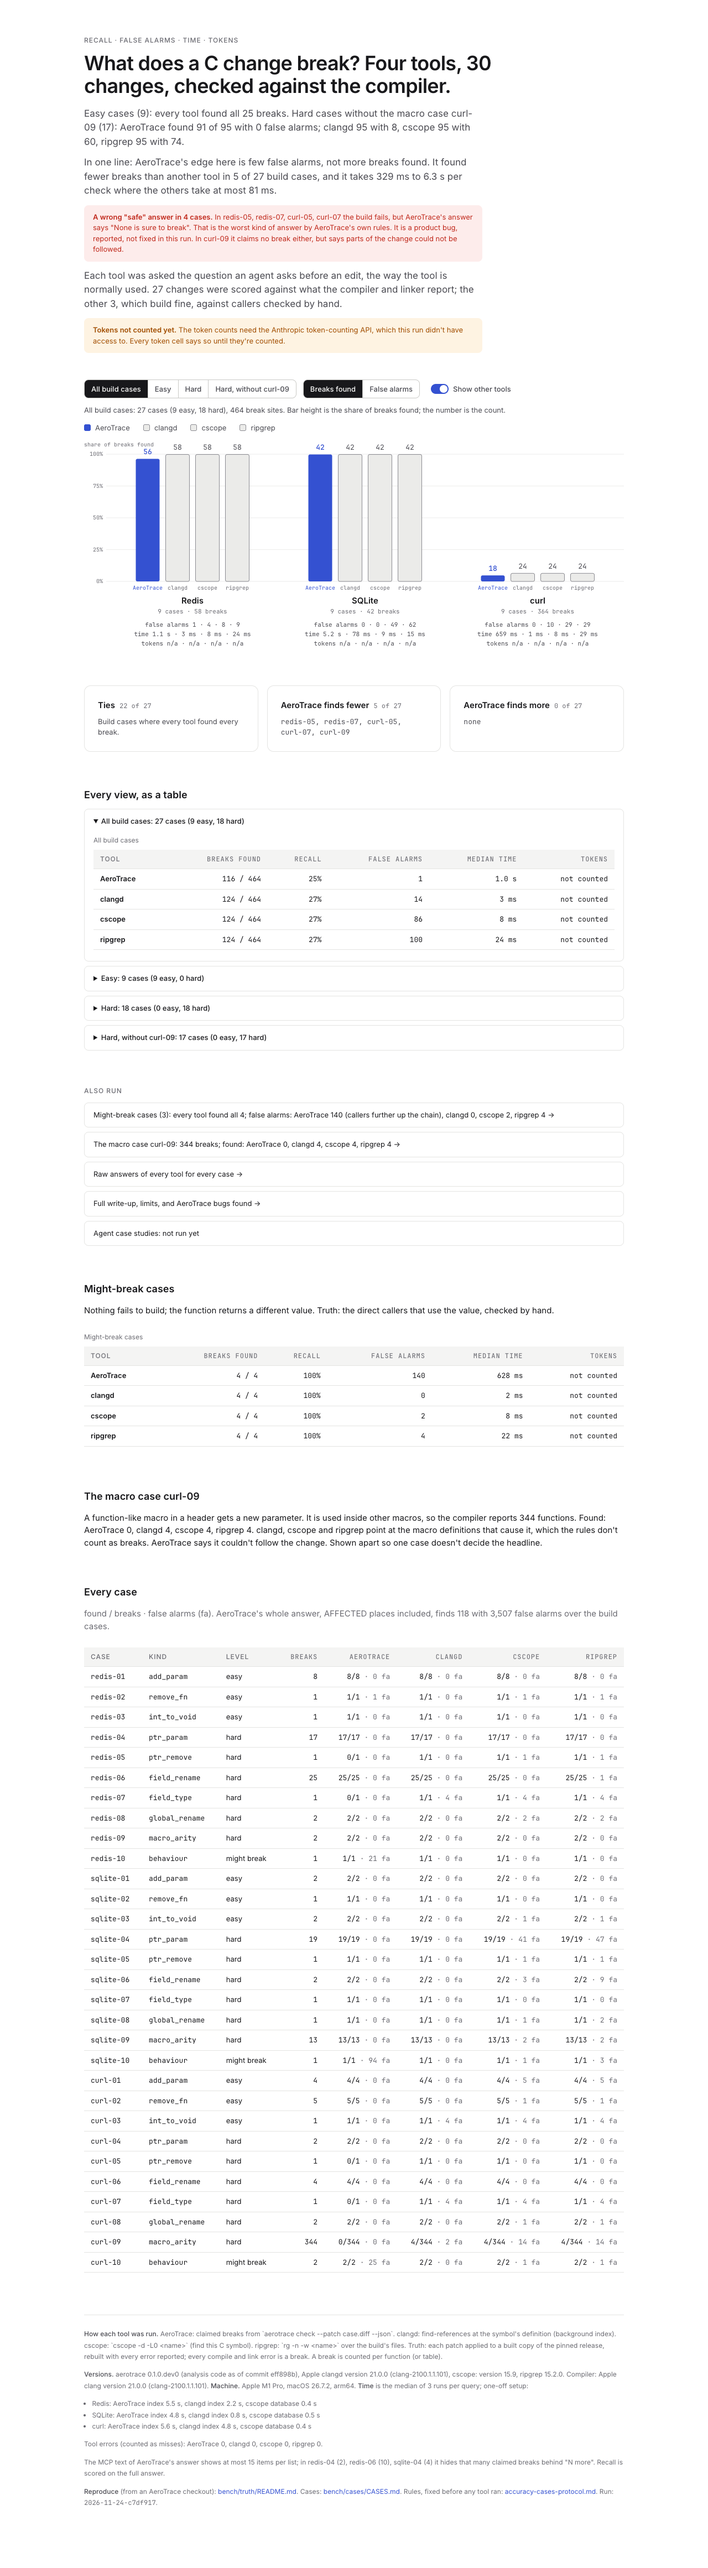
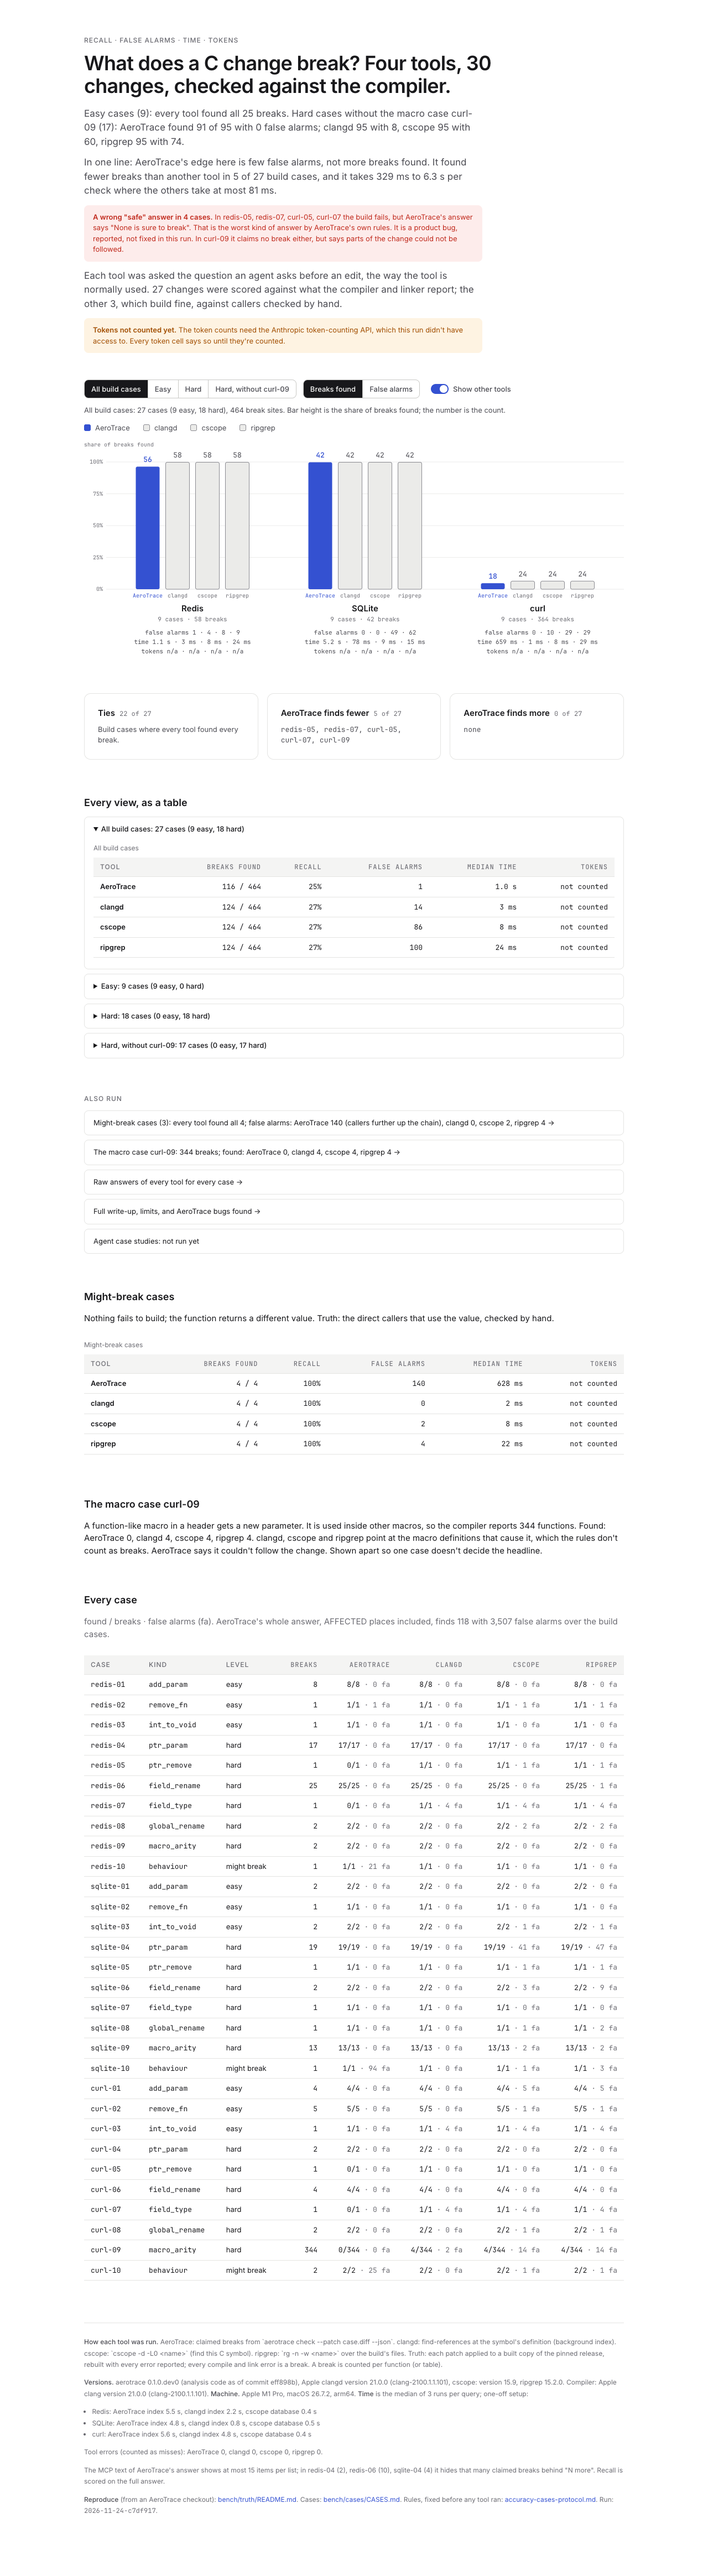
test(ui): wrong-safe cases named on the page; errored cases count as misses

diff --git a/docs/benchmark/index.html b/docs/benchmark/index.html
@@ -2,7 +2,7 @@
 <html lang=en>
 <head>
 <meta charset=utf-8>
-<meta http-equiv="Content-Security-Policy" content="default-src 'none'; style-src 'sha256-2o12ANyPZcikzJKeHWeALr9uWq2x818ButFUzuNTcjM='; script-src 'sha256-kKjXmX73p8L+3O/9DSpqRinmFBTBE8dypyIwwOPNGq0='; font-src data:; base-uri 'none'; form-action 'none'">
+<meta http-equiv="Content-Security-Policy" content="default-src 'none'; style-src 'sha256-2o12ANyPZcikzJKeHWeALr9uWq2x818ButFUzuNTcjM='; script-src 'sha256-M4Hb23UVx2zdv+nXjc70lSTunDK4YYDwTY4nrjTy8BM='; font-src data:; base-uri 'none'; form-action 'none'">
 <meta name=viewport content="width=device-width,initial-scale=1">
 <title>AeroTrace accuracy benchmark</title>
 <style>/* AeroTrace design tokens. The one place colours, type, spacing, radius, shadow and motion are defined.
@@ -392,7 +392,7 @@ table.cases td, table.cases th { white-space: nowrap; }
     var maxFa = 0;
     REPOS.forEach(function (r) { tools.forEach(function (t) { maxFa = Math.max(maxFa, v.repos[r][t].false_alarms); }); });
     while (chart.firstChild) chart.removeChild(chart.firstChild);
-    var H = 230, top = 26;
+    var H = 230, top = 40;
     var groups = narrow ? REPOS.map(function (r) { return [r]; }) : [REPOS];
     groups.forEach(function (rs) {
       var height = top + H + 140;
@@ -411,7 +411,7 @@ table.cases td, table.cases th { white-space: nowrap; }
       rs.forEach(function (r, i) { drawGroup(svg, AX + i * gw + 8, gw - 16, top + H, H, r, tools, v, maxFa); });
       if (state.metric === "fa" && maxFa === 0) {
         svg.appendChild(el("text", { x: AX + (W - AX) / 2, y: top + H / 2, "text-anchor": "middle", "class": "empty" },
-          (tools.length === 1 ? "AeroTrace has" : "No tool has") + " any false alarms in this view."));
+          tools.length === 1 ? "AeroTrace has no false alarms in this view." : "No tool has any false alarms in this view."));
       }
       chart.appendChild(svg);
     });

diff --git a/src/aerotrace/ui/web/bench-page.js b/src/aerotrace/ui/web/bench-page.js
@@ -87,7 +87,7 @@
       rs.forEach(function (r, i) { drawGroup(svg, AX + i * gw + 8, gw - 16, top + H, H, r, tools, v, maxFa); });
       if (state.metric === "fa" && maxFa === 0) {
         svg.appendChild(el("text", { x: AX + (W - AX) / 2, y: top + H / 2, "text-anchor": "middle", "class": "empty" },
-          (tools.length === 1 ? "AeroTrace has" : "No tool has") + " any false alarms in this view."));
+          tools.length === 1 ? "AeroTrace has no false alarms in this view." : "No tool has any false alarms in this view."));
       }
       chart.appendChild(svg);
     });

diff --git a/tests/ui/test_bench_page.py b/tests/ui/test_bench_page.py
@@ -95,3 +95,21 @@ def test_tokens_say_not_counted_until_they_are(data: dict, html: str) -> None:
     if not data["tokens_counted"]:
         assert "Tokens not counted yet." in html
         assert data["views"]["all"]["total"]["aerotrace"]["tokens"] is None
+
+
+def test_wrong_safe_answers_are_named(data: dict, html: str) -> None:
+    """Every build case that breaks while AeroTrace says nothing is sure to break is named on the page."""
+    for cid in data["wrong_safe"]:
+        raw = json.loads((RUN / "raw" / cid / "aerotrace.json").read_text())
+        assert bench_page.SAFE_PHRASE in raw["text"]
+        assert next(c for c in data["cases"] if c["id"] == cid)["breaks"] > 0
+        assert cid in html
+    if data["wrong_safe"]:
+        assert 'A wrong "safe" answer' in html
+
+
+def test_errored_cases_count_as_misses() -> None:
+    rows = [{"truth": ["a", "b"], "tools": {"x": {"error": "boom"}}},
+            {"truth": ["c"], "tools": {"x": {"found": 1, "truth_sites": 1, "false_alarms": 0, "seconds": 0.1}}}]  # fmt: skip
+    agg = bench_page._agg(rows, "x")
+    assert (agg["found"], agg["truth"], agg["errors"]) == (1, 3, 1)
